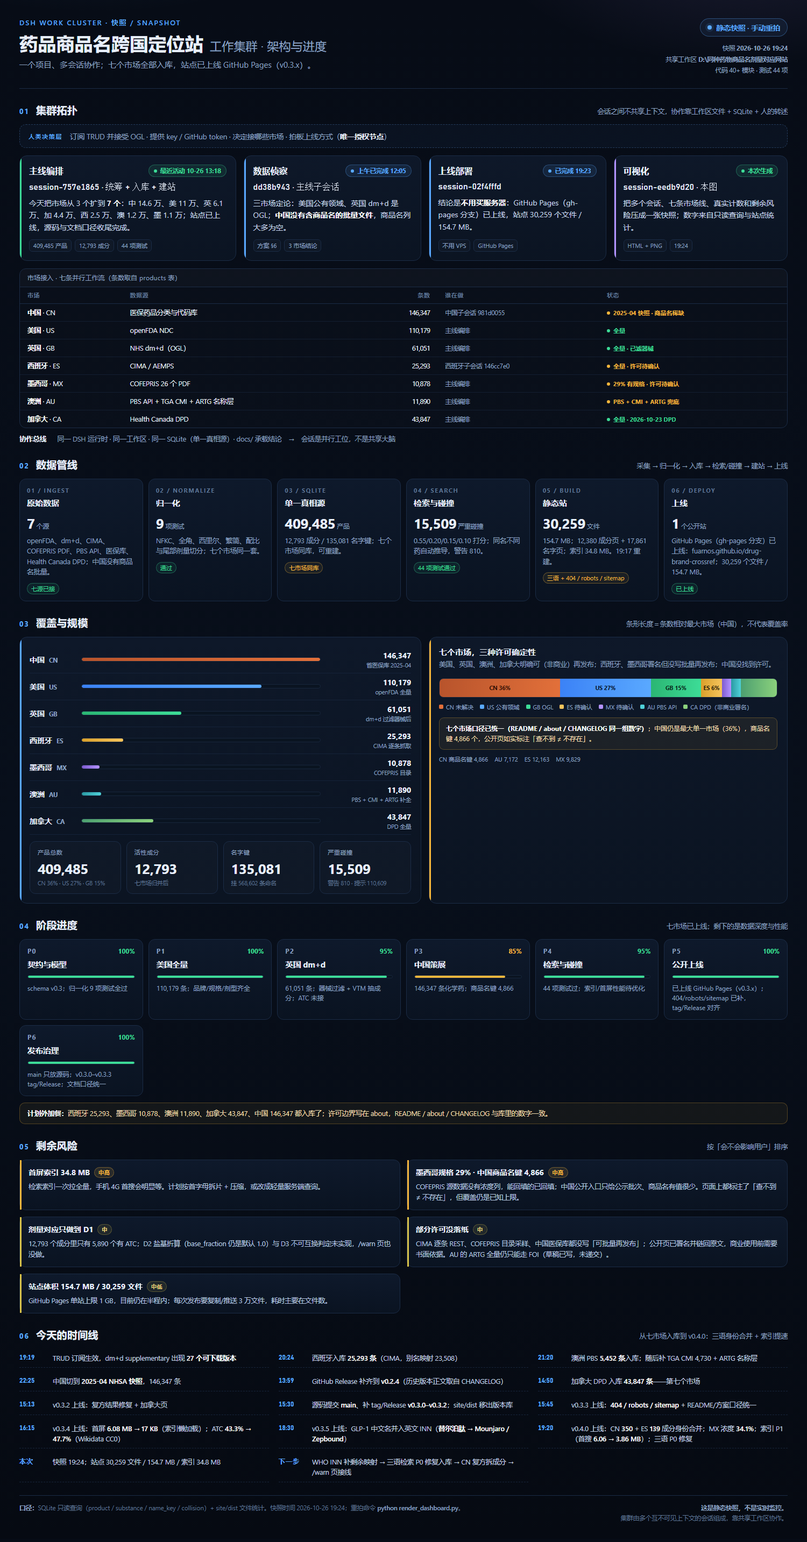
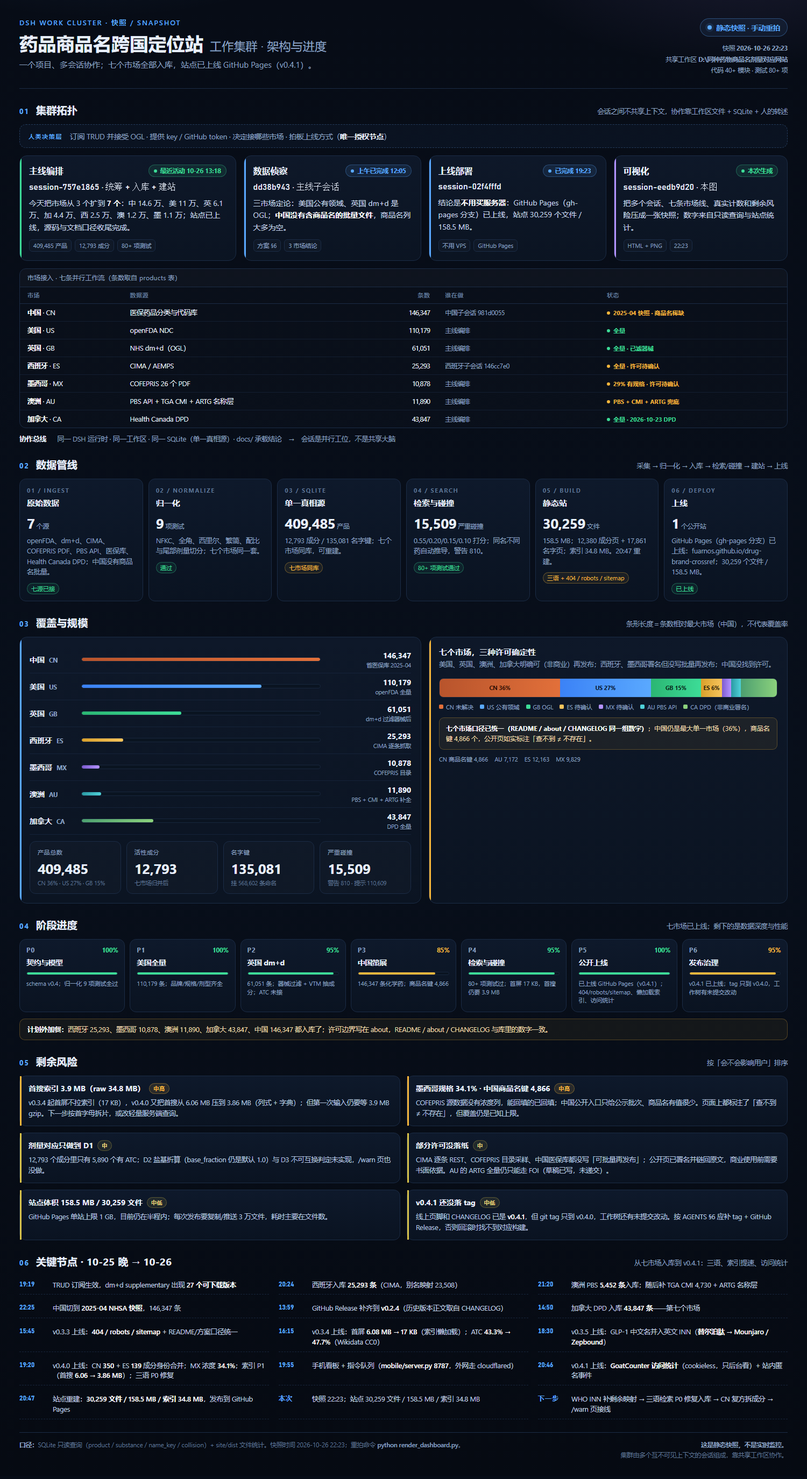
Dashboard: mobile channel + v0.4.1 status
- template/render updated for phone dashboard entry and v0.4.1 live status

Changed region(s): [[0.0307, 0.0, 0.9813, 0.9891], [0.736, 0.0, 0.9813, 0.3091], [0.6747, 0.5873, 0.9813, 0.68]]

diff --git a/docs/工作集群-架构与进度.html b/docs/工作集群-架构与进度.html
@@ -134,14 +134,14 @@
   .callout{margin-top:12px;padding:10px 12px;border-radius:9px;background:rgba(246,183,60,.07);border:1px solid rgba(246,183,60,.28);font-size:12px;color:#f3ddb0;line-height:1.6}
   .callout b{color:#fff}
 
-  .phases{display:grid;grid-template-columns:repeat(6,1fr);gap:10px}
-  .ph{border:1px solid var(--line);border-radius:12px;padding:13px 14px;background:linear-gradient(180deg,#0e192b,#0a1321)}
+  .phases{display:grid;grid-template-columns:repeat(7,1fr);gap:9px}
+  .ph{border:1px solid var(--line);border-radius:12px;padding:12px 12px;background:linear-gradient(180deg,#0e192b,#0a1321)}
   .ph .top{display:flex;justify-content:space-between;align-items:baseline}
-  .ph .p{font-size:12px;color:var(--muted);letter-spacing:1.2px;font-weight:700}
-  .ph .pct{font-size:12px;font-weight:700}
-  .ph h4{font-size:14.5px;margin-top:7px;font-weight:650}
-  .ph .bar{height:6px;margin-top:10px}
-  .ph .note{font-size:12px;color:var(--muted);line-height:1.5;margin-top:9px;min-height:36px}
+  .ph .p{font-size:11.5px;color:var(--muted);letter-spacing:1.1px;font-weight:700}
+  .ph .pct{font-size:11.5px;font-weight:700}
+  .ph h4{font-size:13.5px;margin-top:6px;font-weight:650}
+  .ph .bar{height:6px;margin-top:9px}
+  .ph .note{font-size:11px;color:var(--muted);line-height:1.45;margin-top:8px;min-height:48px}
   .extra{margin-top:12px;padding:11px 14px;border-radius:10px;border:1px solid rgba(246,183,60,.28);background:rgba(246,183,60,.06);font-size:12.5px;color:#f3ddb0}
   .extra b{color:#fff}
 
@@ -174,14 +174,14 @@
   <div>
     <div class="eyebrow">DSH WORK CLUSTER · 快照 / SNAPSHOT</div>
     <h1>药品商品名跨国定位站<span>工作集群 · 架构与进度</span></h1>
-    <div class="lede">一个项目、多会话协作；七个市场全部入库，站点已上线 GitHub Pages（v0.3.x）。</div>
+    <div class="lede">一个项目、多会话协作；七个市场全部入库，站点已上线 GitHub Pages（v0.4.1）。</div>
   </div>
   <div class="snap">
     <div class="live static"><i></i>静态快照 · 手动重拍</div>
     <div class="time">
-      快照 <b>2026-10-26 19:24</b><br>
+      快照 <b>2026-10-26 22:23</b><br>
       共享工作区 <b>D:\同种药物商品名剂量对应网站</b><br>
-      代码 40+ 模块 · 测试 44 项
+      代码 40+ 模块 · 测试 80+ 项
     </div>
   </div>
 </header>
@@ -197,7 +197,7 @@
       <div class="role"><span class="name">主线编排</span><span class="pill run"><i></i>最近活动 10-26 13:18</span></div>
       <div class="sid mono">session-757e1865 · 统筹 + 入库 + 建站</div>
       <div class="task">今天把市场从 3 个扩到 <b>7 个</b>：中 14.6 万、美 11 万、英 6.1 万、加 4.4 万、西 2.5 万、澳 1.2 万、墨 1.1 万；站点已上线，源码与文档口径收尾完成。</div>
-      <div class="chips"><span class="chip">409,485 产品</span><span class="chip">12,793 成分</span><span class="chip">44 项测试</span></div>
+      <div class="chips"><span class="chip">409,485 产品</span><span class="chip">12,793 成分</span><span class="chip">80+ 项测试</span></div>
     </div>
     <div class="card b">
       <div class="role"><span class="name">数据侦察</span><span class="pill done"><i></i>上午已完成 12:05</span></div>
@@ -208,14 +208,14 @@
     <div class="card b">
       <div class="role"><span class="name">上线部署</span><span class="pill done"><i></i>已完成 19:23</span></div>
       <div class="sid mono">session-02f4fffd</div>
-      <div class="task">结论是<b>不用买服务器</b>：GitHub Pages（gh-pages 分支）已上线，站点 30,259 个文件 / 154.7 MB。</div>
+      <div class="task">结论是<b>不用买服务器</b>：GitHub Pages（gh-pages 分支）已上线，站点 30,259 个文件 / 158.5 MB。</div>
       <div class="chips"><span class="chip">不用 VPS</span><span class="chip">GitHub Pages</span></div>
     </div>
     <div class="card v">
       <div class="role"><span class="name">可视化</span><span class="pill run"><i></i>本次生成</span></div>
       <div class="sid mono">session-eedb9d20 · 本图</div>
       <div class="task">把多个会话、七条市场线、真实计数和剩余风险压成一张快照；数字来自只读查询与站点统计。</div>
-      <div class="chips"><span class="chip">HTML + PNG</span><span class="chip">19:24</span></div>
+      <div class="chips"><span class="chip">HTML + PNG</span><span class="chip">22:23</span></div>
     </div>
   </div>
 
@@ -260,18 +260,18 @@
       <div class="idx">04 / SEARCH</div><h3>检索与碰撞</h3>
       <div class="metric">15,509<small>严重碰撞</small></div>
       <p>0.55/0.20/0.15/0.10 打分；同名不同药自动推导，警告 810。</p>
-      <span class="st ok">44 项测试通过</span>
+      <span class="st ok">80+ 项测试通过</span>
     </div>
     <div class="step">
       <div class="idx">05 / BUILD</div><h3>静态站</h3>
       <div class="metric">30,259<small>文件</small></div>
-      <p>154.7 MB；12,380 成分页 + 17,861 名字页；索引 34.8 MB。19:17 重建。</p>
+      <p>158.5 MB；12,380 成分页 + 17,861 名字页；索引 34.8 MB。20:47 重建。</p>
       <span class="st hot">三语 + 404 / robots / sitemap</span>
     </div>
     <div class="step">
       <div class="idx">06 / DEPLOY</div><h3>上线</h3>
       <div class="metric">1<small>个公开站</small></div>
-      <p>GitHub Pages（gh-pages 分支）已上线：fuarnos.github.io/drug-brand-crossref；30,259 个文件 / 154.7 MB。</p>
+      <p>GitHub Pages（gh-pages 分支）已上线：fuarnos.github.io/drug-brand-crossref；30,259 个文件 / 158.5 MB。</p>
       <span class="st ok">已上线</span>
     </div>
   </div>
@@ -358,7 +358,7 @@
     <div class="ph">
       <div class="top"><span class="p">P0</span><span class="pct" style="color:var(--green)">100%</span></div>
       <h4>契约与模型</h4><div class="bar"><i style="width:100%;background:var(--green)"></i></div>
-      <div class="note">schema v0.3；归一化 9 项测试全过</div>
+      <div class="note">schema v0.4；归一化 9 项测试全过</div>
     </div>
     <div class="ph">
       <div class="top"><span class="p">P1</span><span class="pct" style="color:var(--green)">100%</span></div>
@@ -378,17 +378,17 @@
     <div class="ph">
       <div class="top"><span class="p">P4</span><span class="pct" style="color:var(--green)">95%</span></div>
       <h4>检索与碰撞</h4><div class="bar"><i style="width:95%;background:var(--green)"></i></div>
-      <div class="note">44 项测试过；索引/首屏性能待优化</div>
+      <div class="note">80+ 项测试过；首屏 17 KB，首搜仍要 3.9 MB</div>
     </div>
     <div class="ph">
       <div class="top"><span class="p">P5</span><span class="pct" style="color:var(--green)">100%</span></div>
       <h4>公开上线</h4><div class="bar"><i style="width:100%;background:var(--green)"></i></div>
-      <div class="note">已上线 GitHub Pages（v0.3.x）；404/robots/sitemap 已补，tag/Release 对齐</div>
+      <div class="note">已上线 GitHub Pages（v0.4.1）；404/robots/sitemap、懒加载索引、访问统计</div>
     </div>
     <div class="ph">
-      <div class="top"><span class="p">P6</span><span class="pct" style="color:var(--green)">100%</span></div>
-      <h4>发布治理</h4><div class="bar"><i style="width:100%;background:var(--green)"></i></div>
-      <div class="note">main 只放源码；v0.3.0–v0.3.3 tag/Release；文档口径统一</div>
+      <div class="top"><span class="p">P6</span><span class="pct" style="color:var(--amber)">95%</span></div>
+      <h4>发布治理</h4><div class="bar"><i style="width:95%;background:var(--amber)"></i></div>
+      <div class="note">v0.4.1 已上线；tag 只到 v0.4.0，工作树有未提交改动</div>
     </div>
   </div>
   <div class="extra"><b>计划外加餐：</b>西班牙 25,293、墨西哥 10,878、澳洲 11,890、加拿大 43,847、中国 146,347 都入库了；许可边界写在 about，README / about / CHANGELOG 与库里的数字一致。</div>
@@ -398,11 +398,11 @@
   <div class="sec-head"><span class="no">05</span><h2>剩余风险</h2><span class="hint">按「会不会影响用户」排序</span></div>
   <div class="risks">
     <div class="risk a">
-      <h4>首屏索引 34.8 MB <span class="sev mid">中高</span></h4>
-      <p>检索索引一次拉全量，手机 4G 首搜会明显等。计划按首字母拆片 + 压缩，或改成轻量服务端查询。</p>
+      <h4>首搜索引 3.9 MB（raw 34.8 MB） <span class="sev mid">中高</span></h4>
+      <p>v0.3.4 起首屏不拉索引（17 KB），v0.4.0 又把首搜从 6.06 MB 压到 3.86 MB（列式 + 字典）；但第一次输入仍要等 3.9 MB gzip。下一步按首字母拆片，或改轻量服务端查询。</p>
     </div>
     <div class="risk a">
-      <h4>墨西哥规格 29% · 中国商品名键 4,866 <span class="sev mid">中高</span></h4>
+      <h4>墨西哥规格 34.1% · 中国商品名键 4,866 <span class="sev mid">中高</span></h4>
       <p>COFEPRIS 源数据没有浓度列，能回填的已回填；中国公开入口只给公示批次、商品名有值很少。页面上都标注了「查不到 ≠ 不存在」，但覆盖仍是已知上限。</p>
     </div>
     <div class="risk y">
@@ -414,14 +414,18 @@
       <p>CIMA 逐条 REST、COFEPRIS 目录采样、中国医保库都没写「可批量再发布」；公开页已署名并链回原文，商业使用前需要书面依据。AU 的 ARTG 全量仍只能走 FOI（草稿已写，未递交）。</p>
     </div>
     <div class="risk y">
-      <h4>站点体积 154.7 MB / 30,259 文件 <span class="sev lo">中低</span></h4>
+      <h4>站点体积 158.5 MB / 30,259 文件 <span class="sev lo">中低</span></h4>
       <p>GitHub Pages 单站上限 1 GB，目前仍在半程内；每次发布要复制/推送 3 万文件，耗时主要在文件数。</p>
+    </div>
+    <div class="risk y">
+      <h4>v0.4.1 还没落 tag <span class="sev lo">中低</span></h4>
+      <p>线上页脚和 CHANGELOG 已是 <b>v0.4.1</b>，但 git tag 只到 v0.4.0，工作树还有未提交改动。按 AGENTS §6 应补 tag + GitHub Release，否则回滚时找不到对应构建。</p>
     </div>
   </div>
 </section>
 
 <section>
-  <div class="sec-head"><span class="no">06</span><h2>今天的时间线</h2><span class="hint">从七市场入库到 v0.4.0：三语身份合并 + 索引提速</span></div>
+  <div class="sec-head"><span class="no">06</span><h2>关键节点 · 10-25 晚 → 10-26</h2><span class="hint">从七市场入库到 v0.4.1：三语、索引提速、访问统计</span></div>
   <div class="tl">
     <div class="ev"><div class="t mono">19:19</div><div class="x">TRUD 订阅生效，dm+d supplementary 出现 <b>27 个可下载版本</b></div></div>
     <div class="ev"><div class="t mono">20:24</div><div class="x">西班牙入库 <b>25,293 条</b>（CIMA，别名映射 23,508）</div></div>
@@ -429,19 +433,20 @@
     <div class="ev"><div class="t mono">22:25</div><div class="x">中国切到 <b>2025-04 NHSA 快照</b>，146,347 条</div></div>
     <div class="ev"><div class="t mono">13:59</div><div class="x">GitHub Release 补齐到 <b>v0.2.4</b>（历史版本正文取自 CHANGELOG）</div></div>
     <div class="ev"><div class="t mono">14:50</div><div class="x">加拿大 DPD 入库 <b>43,847 条</b>——第七个市场</div></div>
-    <div class="ev"><div class="t mono">15:13</div><div class="x">v0.3.2 上线：复方结果修复 + 加拿大页</div></div>
-    <div class="ev"><div class="t mono">15:30</div><div class="x">源码提交 <b>main</b>、补 tag/Release <b>v0.3.0–v0.3.2</b>；site/dist 移出版本库</div></div>
     <div class="ev"><div class="t mono">15:45</div><div class="x">v0.3.3 上线：<b>404 / robots / sitemap</b> + README/方案口径统一</div></div>
     <div class="ev"><div class="t mono">16:15</div><div class="x">v0.3.4 上线：首屏 <b>6.08 MB → 17 KB</b>（索引懒加载）；ATC <b>43.3% → 47.7%</b>（Wikidata CC0）</div></div>
     <div class="ev"><div class="t mono">18:30</div><div class="x">v0.3.5 上线：GLP-1 中文名并入英文 INN（<b>替尔泊肽 → Mounjaro / Zepbound</b>）</div></div>
     <div class="ev"><div class="t mono">19:20</div><div class="x">v0.4.0 上线：CN <b>350</b> + ES <b>139</b> 成分身份合并；MX 浓度 <b>34.1%</b>；索引 P1（首搜 <b>6.06 → 3.86 MB</b>）；三语 P0 修复</div></div>
-    <div class="ev"><div class="t mono">本次</div><div class="x">快照 19:24；站点 30,259 文件 / 154.7 MB / 索引 34.8 MB</div></div>
+    <div class="ev"><div class="t mono">19:55</div><div class="x">手机看板 + 指令队列（<b>mobile/server.py 8787</b>，外网走 cloudflared）</div></div>
+    <div class="ev"><div class="t mono">20:46</div><div class="x">v0.4.1 上线：<b>GoatCounter 访问统计</b>（cookieless，只后台看）+ 站内匿名事件</div></div>
+    <div class="ev"><div class="t mono">20:47</div><div class="x">站点重建：<b>30,259 文件 / 158.5 MB / 索引 34.8 MB</b>，发布到 GitHub Pages</div></div>
+    <div class="ev"><div class="t mono">本次</div><div class="x">快照 22:23；站点 30,259 文件 / 158.5 MB / 索引 34.8 MB</div></div>
     <div class="ev"><div class="t mono">下一步</div><div class="x">WHO INN 补剩余映射 → 三语检索 P0 修复入库 → CN 复方拆成分 → /warn 页接线</div></div>
   </div>
 </section>
 
 <footer>
-  <div><b>口径：</b>SQLite 只读查询（product / substance / name_key / collision）+ site/dist 文件统计。快照时间 2026-10-26 19:24；重拍命令 <b>python render_dashboard.py</b>。</div>
+  <div><b>口径：</b>SQLite 只读查询（product / substance / name_key / collision）+ site/dist 文件统计。快照时间 2026-10-26 22:23；重拍命令 <b>python render_dashboard.py</b>。</div>
   <div style="text-align:right"><b>这是静态快照，不是实时监控。</b><br>集群由多个互不可见上下文的会话组成，靠共享工作区协作。</div>
 </footer>
 

diff --git a/docs/dashboard.template.html b/docs/dashboard.template.html
@@ -134,14 +134,14 @@
   .callout{margin-top:12px;padding:10px 12px;border-radius:9px;background:rgba(246,183,60,.07);border:1px solid rgba(246,183,60,.28);font-size:12px;color:#f3ddb0;line-height:1.6}
   .callout b{color:#fff}
 
-  .phases{display:grid;grid-template-columns:repeat(6,1fr);gap:10px}
-  .ph{border:1px solid var(--line);border-radius:12px;padding:13px 14px;background:linear-gradient(180deg,#0e192b,#0a1321)}
+  .phases{display:grid;grid-template-columns:repeat(7,1fr);gap:9px}
+  .ph{border:1px solid var(--line);border-radius:12px;padding:12px 12px;background:linear-gradient(180deg,#0e192b,#0a1321)}
   .ph .top{display:flex;justify-content:space-between;align-items:baseline}
-  .ph .p{font-size:12px;color:var(--muted);letter-spacing:1.2px;font-weight:700}
-  .ph .pct{font-size:12px;font-weight:700}
-  .ph h4{font-size:14.5px;margin-top:7px;font-weight:650}
-  .ph .bar{height:6px;margin-top:10px}
-  .ph .note{font-size:12px;color:var(--muted);line-height:1.5;margin-top:9px;min-height:36px}
+  .ph .p{font-size:11.5px;color:var(--muted);letter-spacing:1.1px;font-weight:700}
+  .ph .pct{font-size:11.5px;font-weight:700}
+  .ph h4{font-size:13.5px;margin-top:6px;font-weight:650}
+  .ph .bar{height:6px;margin-top:9px}
+  .ph .note{font-size:11px;color:var(--muted);line-height:1.45;margin-top:8px;min-height:48px}
   .extra{margin-top:12px;padding:11px 14px;border-radius:10px;border:1px solid rgba(246,183,60,.28);background:rgba(246,183,60,.06);font-size:12.5px;color:#f3ddb0}
   .extra b{color:#fff}
 
@@ -174,14 +174,14 @@
   <div>
     <div class="eyebrow">DSH WORK CLUSTER · 快照 / SNAPSHOT</div>
     <h1>药品商品名跨国定位站<span>工作集群 · 架构与进度</span></h1>
-    <div class="lede">一个项目、多会话协作；七个市场全部入库，站点已上线 GitHub Pages（v0.3.x）。</div>
+    <div class="lede">一个项目、多会话协作；七个市场全部入库，站点已上线 GitHub Pages（v0.4.1）。</div>
   </div>
   <div class="snap">
     <div class="live static"><i></i>静态快照 · 手动重拍</div>
     <div class="time">
       快照 <b>{{SNAP_TIME}}</b><br>
       共享工作区 <b>D:\同种药物商品名剂量对应网站</b><br>
-      代码 40+ 模块 · 测试 44 项
+      代码 40+ 模块 · 测试 80+ 项
     </div>
   </div>
 </header>
@@ -197,7 +197,7 @@
       <div class="role"><span class="name">主线编排</span><span class="pill run"><i></i>{{MAIN_STATUS}}</span></div>
       <div class="sid mono">session-757e1865 · 统筹 + 入库 + 建站</div>
       <div class="task">今天把市场从 3 个扩到 <b>7 个</b>：中 14.6 万、美 11 万、英 6.1 万、加 4.4 万、西 2.5 万、澳 1.2 万、墨 1.1 万；站点已上线，源码与文档口径收尾完成。</div>
-      <div class="chips"><span class="chip">{{TOTAL}} 产品</span><span class="chip">{{SUBST}} 成分</span><span class="chip">44 项测试</span></div>
+      <div class="chips"><span class="chip">{{TOTAL}} 产品</span><span class="chip">{{SUBST}} 成分</span><span class="chip">80+ 项测试</span></div>
     </div>
     <div class="card b">
       <div class="role"><span class="name">数据侦察</span><span class="pill done"><i></i>上午已完成 12:05</span></div>
@@ -260,7 +260,7 @@
       <div class="idx">04 / SEARCH</div><h3>检索与碰撞</h3>
       <div class="metric">{{SEV}}<small>严重碰撞</small></div>
       <p>0.55/0.20/0.15/0.10 打分；同名不同药自动推导，警告 {{WARN}}。</p>
-      <span class="st ok">44 项测试通过</span>
+      <span class="st ok">80+ 项测试通过</span>
     </div>
     <div class="step">
       <div class="idx">05 / BUILD</div><h3>静态站</h3>
@@ -358,7 +358,7 @@
     <div class="ph">
       <div class="top"><span class="p">P0</span><span class="pct" style="color:var(--green)">100%</span></div>
       <h4>契约与模型</h4><div class="bar"><i style="width:100%;background:var(--green)"></i></div>
-      <div class="note">schema v0.3；归一化 9 项测试全过</div>
+      <div class="note">schema v0.4；归一化 9 项测试全过</div>
     </div>
     <div class="ph">
       <div class="top"><span class="p">P1</span><span class="pct" style="color:var(--green)">100%</span></div>
@@ -378,7 +378,7 @@
     <div class="ph">
       <div class="top"><span class="p">P4</span><span class="pct" style="color:var(--green)">95%</span></div>
       <h4>检索与碰撞</h4><div class="bar"><i style="width:95%;background:var(--green)"></i></div>
-      <div class="note">44 项测试过；索引/首屏性能待优化</div>
+      <div class="note">80+ 项测试过；首屏 17 KB，首搜仍要 3.9 MB</div>
     </div>
     <div class="ph">
       <div class="top"><span class="p">P5</span><span class="pct" style="color:var(--green)">100%</span></div>
@@ -386,9 +386,9 @@
       <div class="note">{{P5_NOTE}}</div>
     </div>
     <div class="ph">
-      <div class="top"><span class="p">P6</span><span class="pct" style="color:var(--green)">100%</span></div>
-      <h4>发布治理</h4><div class="bar"><i style="width:100%;background:var(--green)"></i></div>
-      <div class="note">main 只放源码；v0.3.0–v0.3.3 tag/Release；文档口径统一</div>
+      <div class="top"><span class="p">P6</span><span class="pct" style="color:var(--amber)">95%</span></div>
+      <h4>发布治理</h4><div class="bar"><i style="width:95%;background:var(--amber)"></i></div>
+      <div class="note">v0.4.1 已上线；tag 只到 v0.4.0，工作树有未提交改动</div>
     </div>
   </div>
   <div class="extra"><b>计划外加餐：</b>西班牙 {{ES}}、墨西哥 {{MX}}、澳洲 {{AU}}、加拿大 {{CA}}、中国 {{CN}} 都入库了；许可边界写在 about，README / about / CHANGELOG 与库里的数字一致。</div>
@@ -398,11 +398,11 @@
   <div class="sec-head"><span class="no">05</span><h2>剩余风险</h2><span class="hint">按「会不会影响用户」排序</span></div>
   <div class="risks">
     <div class="risk a">
-      <h4>首屏索引 {{INDEX_MB}} MB <span class="sev mid">中高</span></h4>
-      <p>检索索引一次拉全量，手机 4G 首搜会明显等。计划按首字母拆片 + 压缩，或改成轻量服务端查询。</p>
+      <h4>首搜索引 3.9 MB（raw {{INDEX_MB}} MB） <span class="sev mid">中高</span></h4>
+      <p>v0.3.4 起首屏不拉索引（17 KB），v0.4.0 又把首搜从 6.06 MB 压到 3.86 MB（列式 + 字典）；但第一次输入仍要等 3.9 MB gzip。下一步按首字母拆片，或改轻量服务端查询。</p>
     </div>
     <div class="risk a">
-      <h4>墨西哥规格 29% · 中国商品名键 {{CN_TRADE}} <span class="sev mid">中高</span></h4>
+      <h4>墨西哥规格 34.1% · 中国商品名键 {{CN_TRADE}} <span class="sev mid">中高</span></h4>
       <p>COFEPRIS 源数据没有浓度列，能回填的已回填；中国公开入口只给公示批次、商品名有值很少。页面上都标注了「查不到 ≠ 不存在」，但覆盖仍是已知上限。</p>
     </div>
     <div class="risk y">
@@ -417,11 +417,15 @@
       <h4>站点体积 {{SIZE_MB}} MB / {{FILES}} 文件 <span class="sev lo">中低</span></h4>
       <p>GitHub Pages 单站上限 1 GB，目前仍在半程内；每次发布要复制/推送 3 万文件，耗时主要在文件数。</p>
     </div>
+    <div class="risk y">
+      <h4>v0.4.1 还没落 tag <span class="sev lo">中低</span></h4>
+      <p>线上页脚和 CHANGELOG 已是 <b>v0.4.1</b>，但 git tag 只到 v0.4.0，工作树还有未提交改动。按 AGENTS §6 应补 tag + GitHub Release，否则回滚时找不到对应构建。</p>
+    </div>
   </div>
 </section>
 
 <section>
-  <div class="sec-head"><span class="no">06</span><h2>今天的时间线</h2><span class="hint">从七市场入库到 v0.4.0：三语身份合并 + 索引提速</span></div>
+  <div class="sec-head"><span class="no">06</span><h2>关键节点 · 10-25 晚 → 10-26</h2><span class="hint">从七市场入库到 v0.4.1：三语、索引提速、访问统计</span></div>
   <div class="tl">
     <div class="ev"><div class="t mono">19:19</div><div class="x">TRUD 订阅生效，dm+d supplementary 出现 <b>27 个可下载版本</b></div></div>
     <div class="ev"><div class="t mono">20:24</div><div class="x">西班牙入库 <b>25,293 条</b>（CIMA，别名映射 23,508）</div></div>
@@ -429,12 +433,13 @@
     <div class="ev"><div class="t mono">22:25</div><div class="x">中国切到 <b>2025-04 NHSA 快照</b>，146,347 条</div></div>
     <div class="ev"><div class="t mono">13:59</div><div class="x">GitHub Release 补齐到 <b>v0.2.4</b>（历史版本正文取自 CHANGELOG）</div></div>
     <div class="ev"><div class="t mono">14:50</div><div class="x">加拿大 DPD 入库 <b>43,847 条</b>——第七个市场</div></div>
-    <div class="ev"><div class="t mono">15:13</div><div class="x">v0.3.2 上线：复方结果修复 + 加拿大页</div></div>
-    <div class="ev"><div class="t mono">15:30</div><div class="x">源码提交 <b>main</b>、补 tag/Release <b>v0.3.0–v0.3.2</b>；site/dist 移出版本库</div></div>
     <div class="ev"><div class="t mono">15:45</div><div class="x">v0.3.3 上线：<b>404 / robots / sitemap</b> + README/方案口径统一</div></div>
     <div class="ev"><div class="t mono">16:15</div><div class="x">v0.3.4 上线：首屏 <b>6.08 MB → 17 KB</b>（索引懒加载）；ATC <b>43.3% → 47.7%</b>（Wikidata CC0）</div></div>
     <div class="ev"><div class="t mono">18:30</div><div class="x">v0.3.5 上线：GLP-1 中文名并入英文 INN（<b>替尔泊肽 → Mounjaro / Zepbound</b>）</div></div>
     <div class="ev"><div class="t mono">19:20</div><div class="x">v0.4.0 上线：CN <b>350</b> + ES <b>139</b> 成分身份合并；MX 浓度 <b>34.1%</b>；索引 P1（首搜 <b>6.06 → 3.86 MB</b>）；三语 P0 修复</div></div>
+    <div class="ev"><div class="t mono">19:55</div><div class="x">手机看板 + 指令队列（<b>mobile/server.py 8787</b>，外网走 cloudflared）</div></div>
+    <div class="ev"><div class="t mono">20:46</div><div class="x">v0.4.1 上线：<b>GoatCounter 访问统计</b>（cookieless，只后台看）+ 站内匿名事件</div></div>
+    <div class="ev"><div class="t mono">20:47</div><div class="x">站点重建：<b>{{FILES}} 文件 / {{SIZE_MB}} MB / 索引 {{INDEX_MB}} MB</b>，发布到 GitHub Pages</div></div>
     <div class="ev"><div class="t mono">本次</div><div class="x">快照 {{SNAP_HHMM}}；站点 {{FILES}} 文件 / {{SIZE_MB}} MB / 索引 {{INDEX_MB}} MB</div></div>
     <div class="ev"><div class="t mono">下一步</div><div class="x">WHO INN 补剩余映射 → 三语检索 P0 修复入库 → CN 复方拆成分 → /warn 页接线</div></div>
   </div>

diff --git a/render_dashboard.py b/render_dashboard.py
@@ -174,7 +174,7 @@ def build_tokens(db: dict, dist: dict) -> dict[str, str]:
 
     deploy_note = (f"GitHub Pages（gh-pages 分支）已上线："
                    f"fuarnos.github.io/drug-brand-crossref；{commas(files)} 个文件 / {size_mb:.1f} MB。")
-    p5_note = "已上线 GitHub Pages（v0.3.x）；404/robots/sitemap 已补，tag/Release 对齐"
+    p5_note = "已上线 GitHub Pages（v0.4.1）；404/robots/sitemap、懒加载索引、访问统计"
 
     return {
         "SNAP_TIME": f"{now:%Y-%m-%d %H:%M}",
